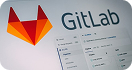
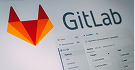
main finalizado

diff --git a/index.html b/index.html
@@ -16,23 +16,112 @@
     <header>
         <h1> The Dev News</h1>
     </header>
-    <main>
+    <main class="container">
         
         <section id="posts">
-            <div class="recent-posts"></div>
-            <div class="recent-posts"></div>
-            <div class="recent-posts"></div>
-            <div class="recent-posts"></div>
-            
+            <div id="introduction">
+                <img src="assets/img/banner article.jpg" alt="imagem de uma cidade cheia de prédios"/>
+                <div id="introduction-title">
+                    <h2>Como é ser um desenvolvedor</h2>
+                    <p>By <span class="author">Fabio Tetsuo</span></p>
+                </div>              
+            </div>
+
+            <div id="topic">
+                <p>Posts mais recentes</p>
+                <a href="#"> Ver todos</a>
+            </div>
+
+            <div id="recently-posted">
+                <div id="dev-mobile" class="cards">
+                    <img src="assets/img/dev mobile.jpg" alt="foto de uma celular">
+                    <h3>desenvolvimento</h3>
+                    <h2>Desenvolvimento mobile</h2>
+                    <p class="written">By <span class="author">Fabio Tetsuo</span></p>
+                    <p>Lorem, ipsum dolor sit amet consectetur adipisicing elit. Maiores eum repellendus laboriosam
+                    est delectus illum obcaecati perspiciatis!
+                    </p>
+                    <p class="posts-date">22 agosto 2022</p>
+                </div>
+
+                <div class="cards">
+                    <img src="assets/img/tripe.jpg" alt="video de uma pessoa preparando para começar a gravar">
+                    <h3>saude</h3>
+                    <h2>Balancear a vida profissional e pessoal</h2>
+                    <p class="written">By <span class="author">Ridho Satriawan</span></p>
+                    <p>Lorem, ipsum dolor sit amet consectetur adipisicing elit. Maiores eum repellendus laboriosam
+                    est delectus illum obcaecati perspiciatis! Cupiditate consequuntur reiciendis porro nulla, 
+                    nostrum cum expedita non ad omnis soluta eaque?
+                    </p>
+                    <p class="posts-date">22 agosto 2022</p>
+                </div>
+
+                <div class="cards">
+                    <img src="assets/img/vscode.jpg" alt="imagem de uma notebook aberto na IDE vscode">
+                    <h3>desenvolvimento</h3>
+                    <h2>Configurando VSCode</h2>
+                    <p class="written">By <span class="author">Fabio Tetsuo</span></p>
+                    <p>Lorem, ipsum dolor sit amet consectetur adipisicing elit. Maiores eum repellendus laboriosam
+                    est delectus illum obcaecati perspiciatis! Cupiditate.
+                    </p>
+                    <p class="posts-date">22 agosto 2022</p>
+                </div>
+
+                <div class="cards">
+                    <img src="assets/img/monitor.jpg" alt="pessoa usando 5 monitores">
+                    <h3>produtividade</h3>
+                    <h2>2 monitores ou 1 ultrawide</h2>
+                    <p class="written">By <span class="author">Fulano da Silva</span></p>
+                    <p>Lorem, ipsum dolor sit amet consectetur adipisicing elit. Maiores eum repellendus laboriosam
+                    est delectus illum obcaecati perspiciatis! Cupiditate consequuntur reiciendis porro nulla.
+                    <p class="posts-date">22 agosto 2022</p>
+                </div>
+            </div>           
         </section>
         
+        
+
         <section id="popular-posts">
-            <div class="popular-posts"></div>
-            <div class="popular-posts"></div>
-            <div class="popular-posts"></div>
+            <div class="topic">
+            <p>Posts populares</p>
+            </div>
+
+            <div class="popular-posts">
+                <img src="assets/img/mulher pc.jpg" alt="mulher usando um pc">
+                <div class="popular-text">
+                    <h3>Desenvolvimento atual</h3>
+                    <p class="posts-date"> 22 agosto 2022</p>
+                </div>
+            </div>
+
+            <div class="popular-posts">
+                <img src="assets/img/git.jpg" alt="imagens do site gitlab">
+                <div class="popular-text">
+                    <h3>GitLab vs GitHub</h3>
+                    <p class="posts-date"> 22 agosto 2022</p>
+                </div> 
+            </div>
+            <div class="popular-posts">
+                <img src="assets/img/cafe.jpg" alt="foto de uma computador com um cafe">
+                <div class="popular-text">
+                    <h3>Café atrapalha?</h3>
+                    <p class="posts-date"> 22 agosto 2022</p>
+                </div>
+            </div>
+
         </section>
-        <section id="categories"></section>
+
+        <section id="categories">
+            <div class="topic">
+                <p>Kategori</p>
+            </div>
+            <div id="category">
+                <p>>Saude <span>(1)</span> </p>
+                <p>>Desenvolvimento <span>(2)</span> </p>
+                <p>>Produtividade <span>(1)</span></p>
+            </div>
+        </section>
     </main>
-    <footer>Copyright@The Dev News</footer>
+    <footer class="container topic">Copyright@The Dev News</footer>
 </body>
 </html>

diff --git a/styles/main.css b/styles/main.css
@@ -1,0 +1,127 @@
+main{
+
+    section{
+
+        #introduction{
+            padding-block: 1.5rem;
+
+            font: 800 1.5rem/1.3 var(--ff-ss);
+            color: white;
+            p{
+                font: bold 1rem/1 var(--ff-ss);
+                color: white;
+            }
+
+            img{
+                width: 100%;
+                border-radius: 10px;
+            }
+            #introduction-title{
+                position: absolute;
+                bottom: 36rem;
+                left: 3rem;
+            }
+        }
+
+        #topic{
+            background-color: #02A28F;
+            border-radius: 10px;
+            a{
+                text-decoration: underline;
+                font: var(--category);
+            }
+            height: 2.5rem;
+            font: var(--title);
+            color: white;
+            display: flex;
+            align-items: center;
+            justify-content: space-between;
+            padding-inline: 1rem;
+        }
+
+        .topic{
+            background-color: #02A28F;
+            border-radius: 10px;
+            height: 2.5rem;
+            font: var(--title);
+            color: white;
+            display: flex;
+            align-items: center;
+            justify-content: center;
+            padding-inline: 1rem;
+        }
+
+        .cards{
+            margin-block: 1.5rem;
+            background-color: white;
+            border-radius: 10px;
+
+            img{
+                width: 100%;
+                border-top-left-radius: 10px;
+                border-top-right-radius: 10px;
+            }
+            h3{
+                font: var(--category);
+                color: #02A28F;
+                padding-block: .5rem;
+                padding-inline: 1rem;
+            }
+            h2{
+                font: var(--title);
+                padding-inline: 1rem;
+                padding-block: .5rem;
+            }
+            .written{
+                color: #616161;
+                font: 800 .875rem/1.5 var(--ff-ss);
+            }
+            .posts-date{
+                color: #616161;
+                font: var(--post-date);
+                padding-bottom: 1rem;
+            }
+            p{
+                font: 500 .875rem/1.5 var(--ff-ss);
+                padding-inline: 1rem;
+                padding-block: .5rem;
+            }
+
+        }
+
+        .popular-posts{
+            background-color: white;
+            border-radius: 10px;
+            margin-block: 1.25rem;
+            padding: 1rem;
+            display: flex;
+            img{
+                border-radius: 10px;
+            }
+            .popular-text{
+                margin-left: 1rem;
+            }
+        }
+
+        .categories{
+            padding-block: 1rem;
+        }
+
+        #category{
+            display: flex;
+            flex-direction: column;
+            padding-block: 1.5rem;
+            gap: 1.5rem;
+            p{
+                display: flex;
+                justify-content: space-between;
+            }
+            font: var(--category-nav);
+            color:#616161;
+            
+        }
+        
+    }
+
+
+}

diff --git a/styles/global.css b/styles/global.css
@@ -2,6 +2,7 @@
     margin: 0;
     padding: 0;
     box-sizing: border-box;
+    overflow-x: hidden;
 }
 
 :root{
@@ -10,10 +11,10 @@
     --title: 800 1.25rem/1.5 var(--ff-ss);
     --text: 400 0.875rem/1.5 var(--ff-ss);
     --credits: 300 0.875rem/1.5 var(--ff-ss);
-    --topic: 400 0.875rem/1.5 var(--ff-ss);
+    --category: 400 0.875rem/1.5 var(--ff-ss);
     --title-popular: 800 .875rem/1.5 var(--ff-ss);
     --post-date: 300 0.75rem/1.5 var(ff-ss);
-    --category-topic: 600 1rem/1.5 var(--ff-ss);
+    --category-nav: 600 1rem/1.5 var(--ff-ss);
     
     /* cores */
     --primary-color: #02A28F;
@@ -21,13 +22,18 @@
 }
 
 body{
+    background-color: #d9d9d9;
     font: inherit;
     color: inherit;
     a{
         text-decoration: none;
         color: inherit;
     }
-    img{
-        max-width: 100%;
+    .author{
+        font: 400 1rem/1 var(--ff-ss);
     }
+}
+
+.container{
+    padding-inline: .5rem;
 }
